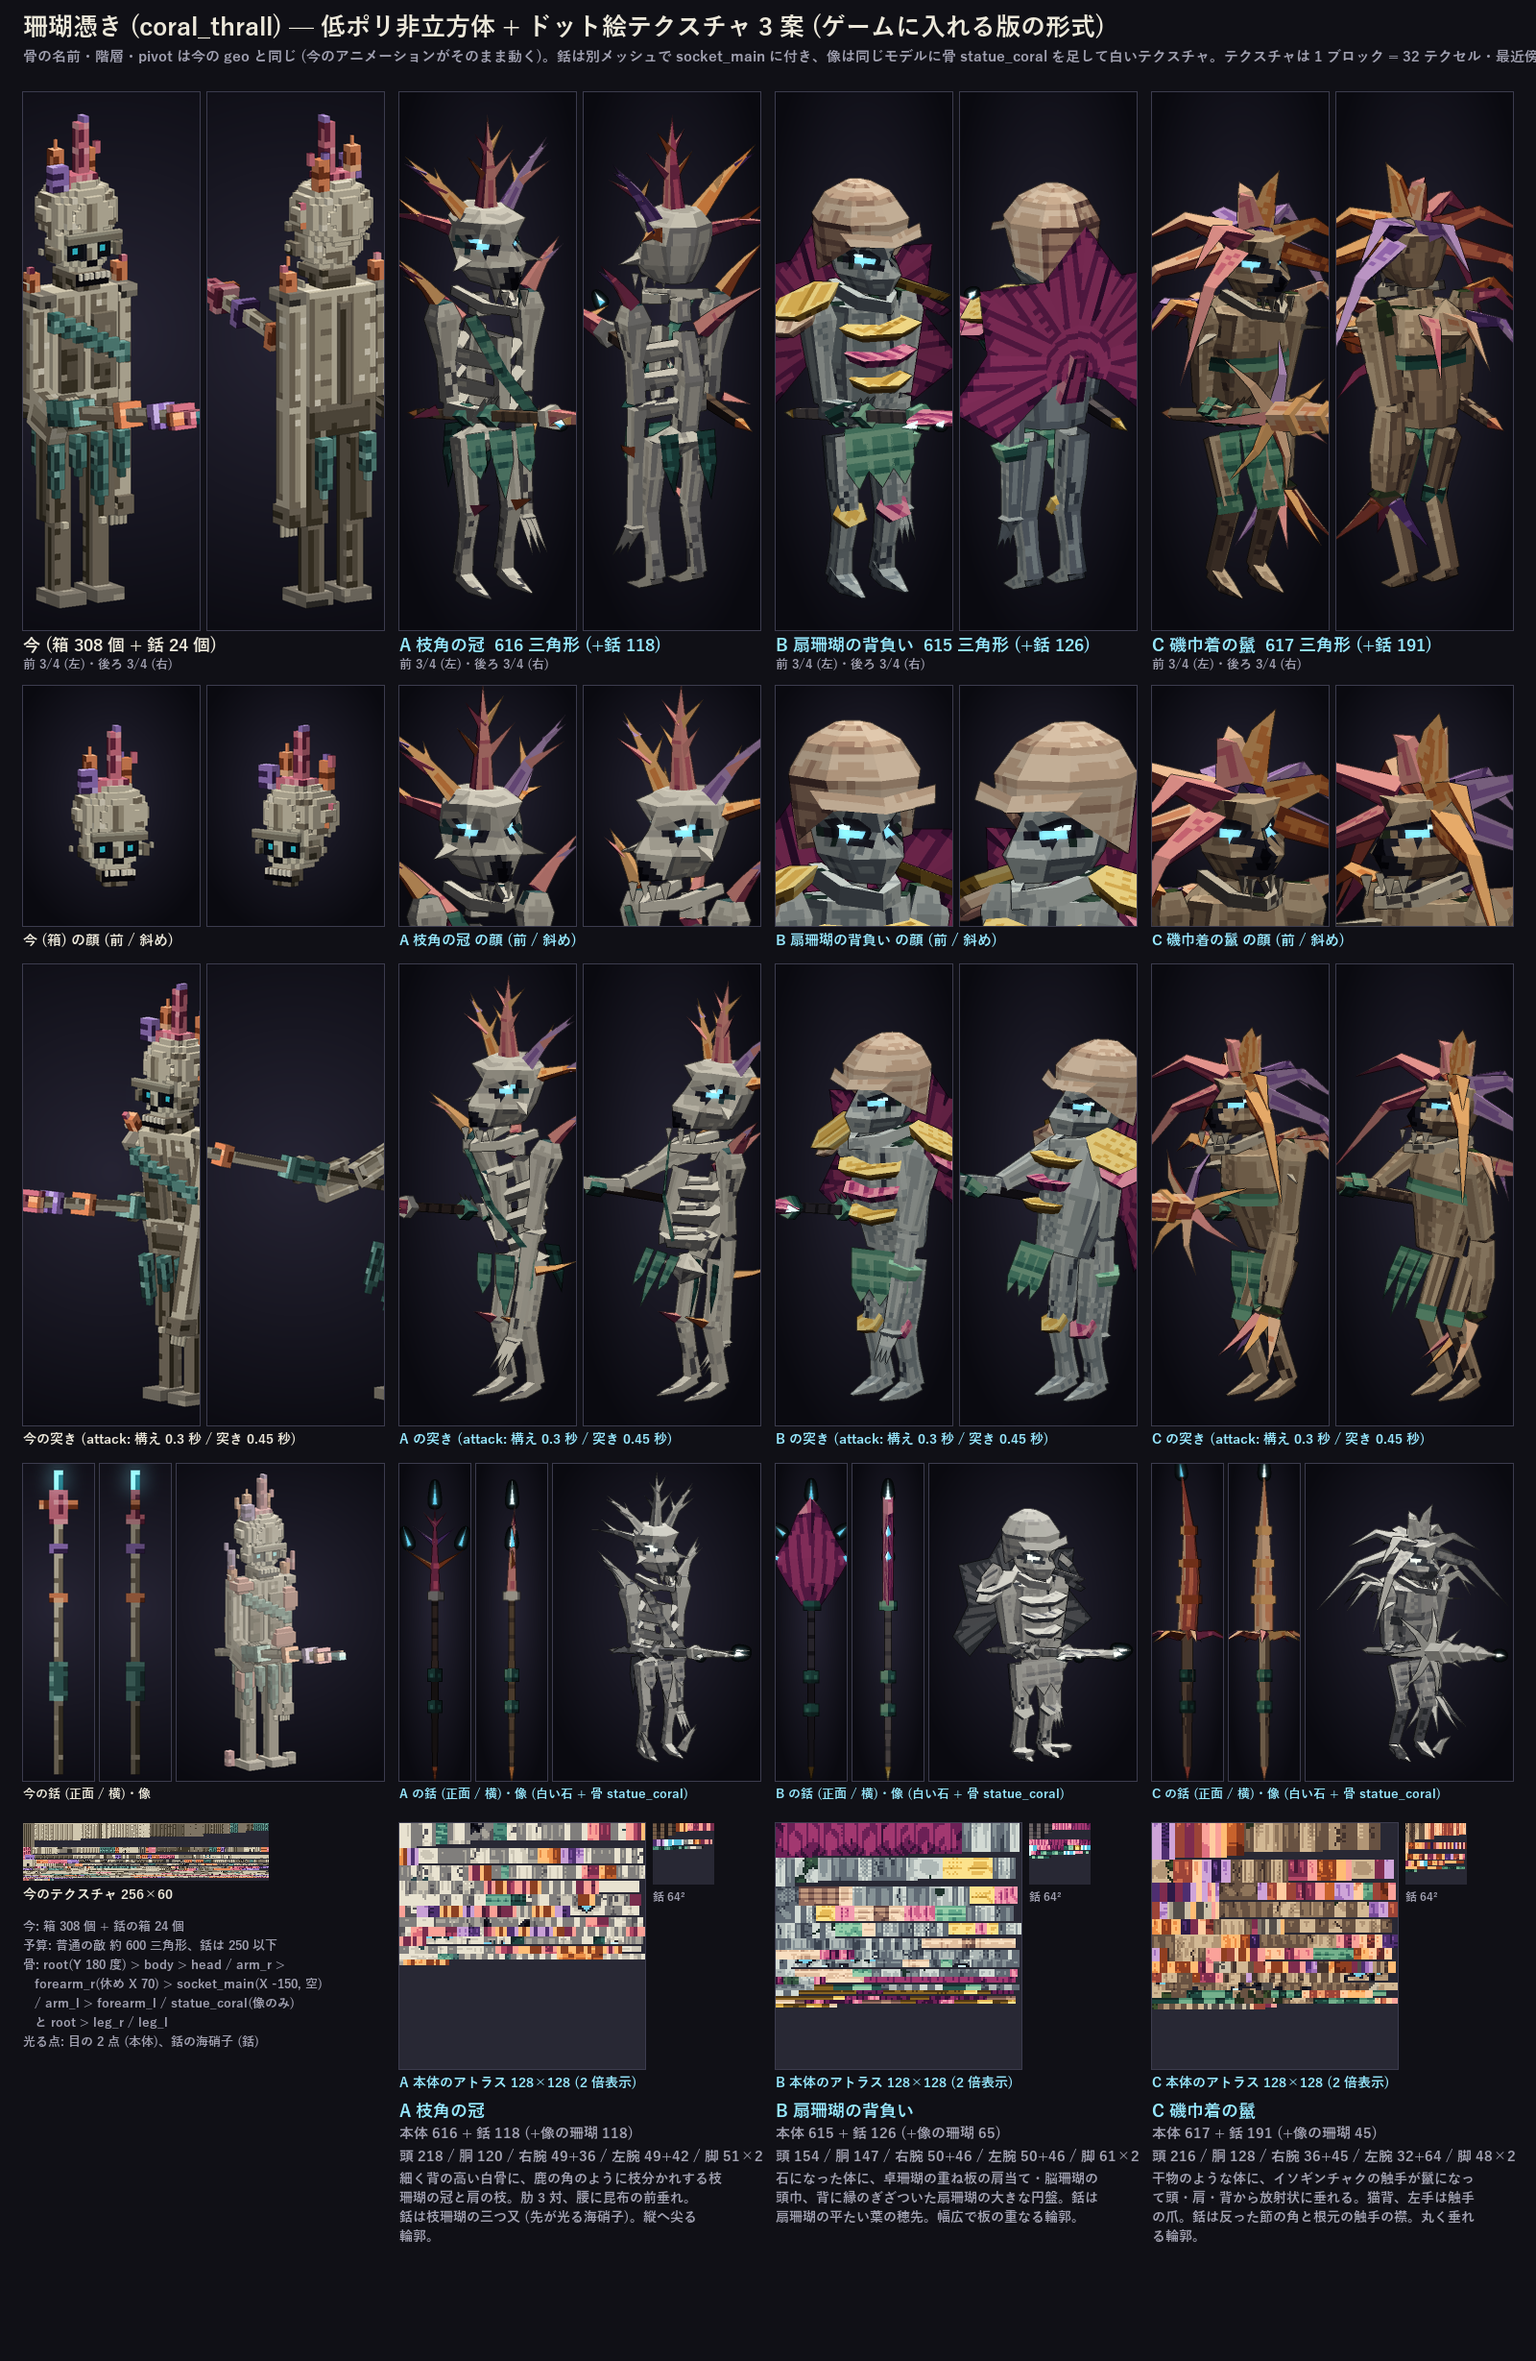
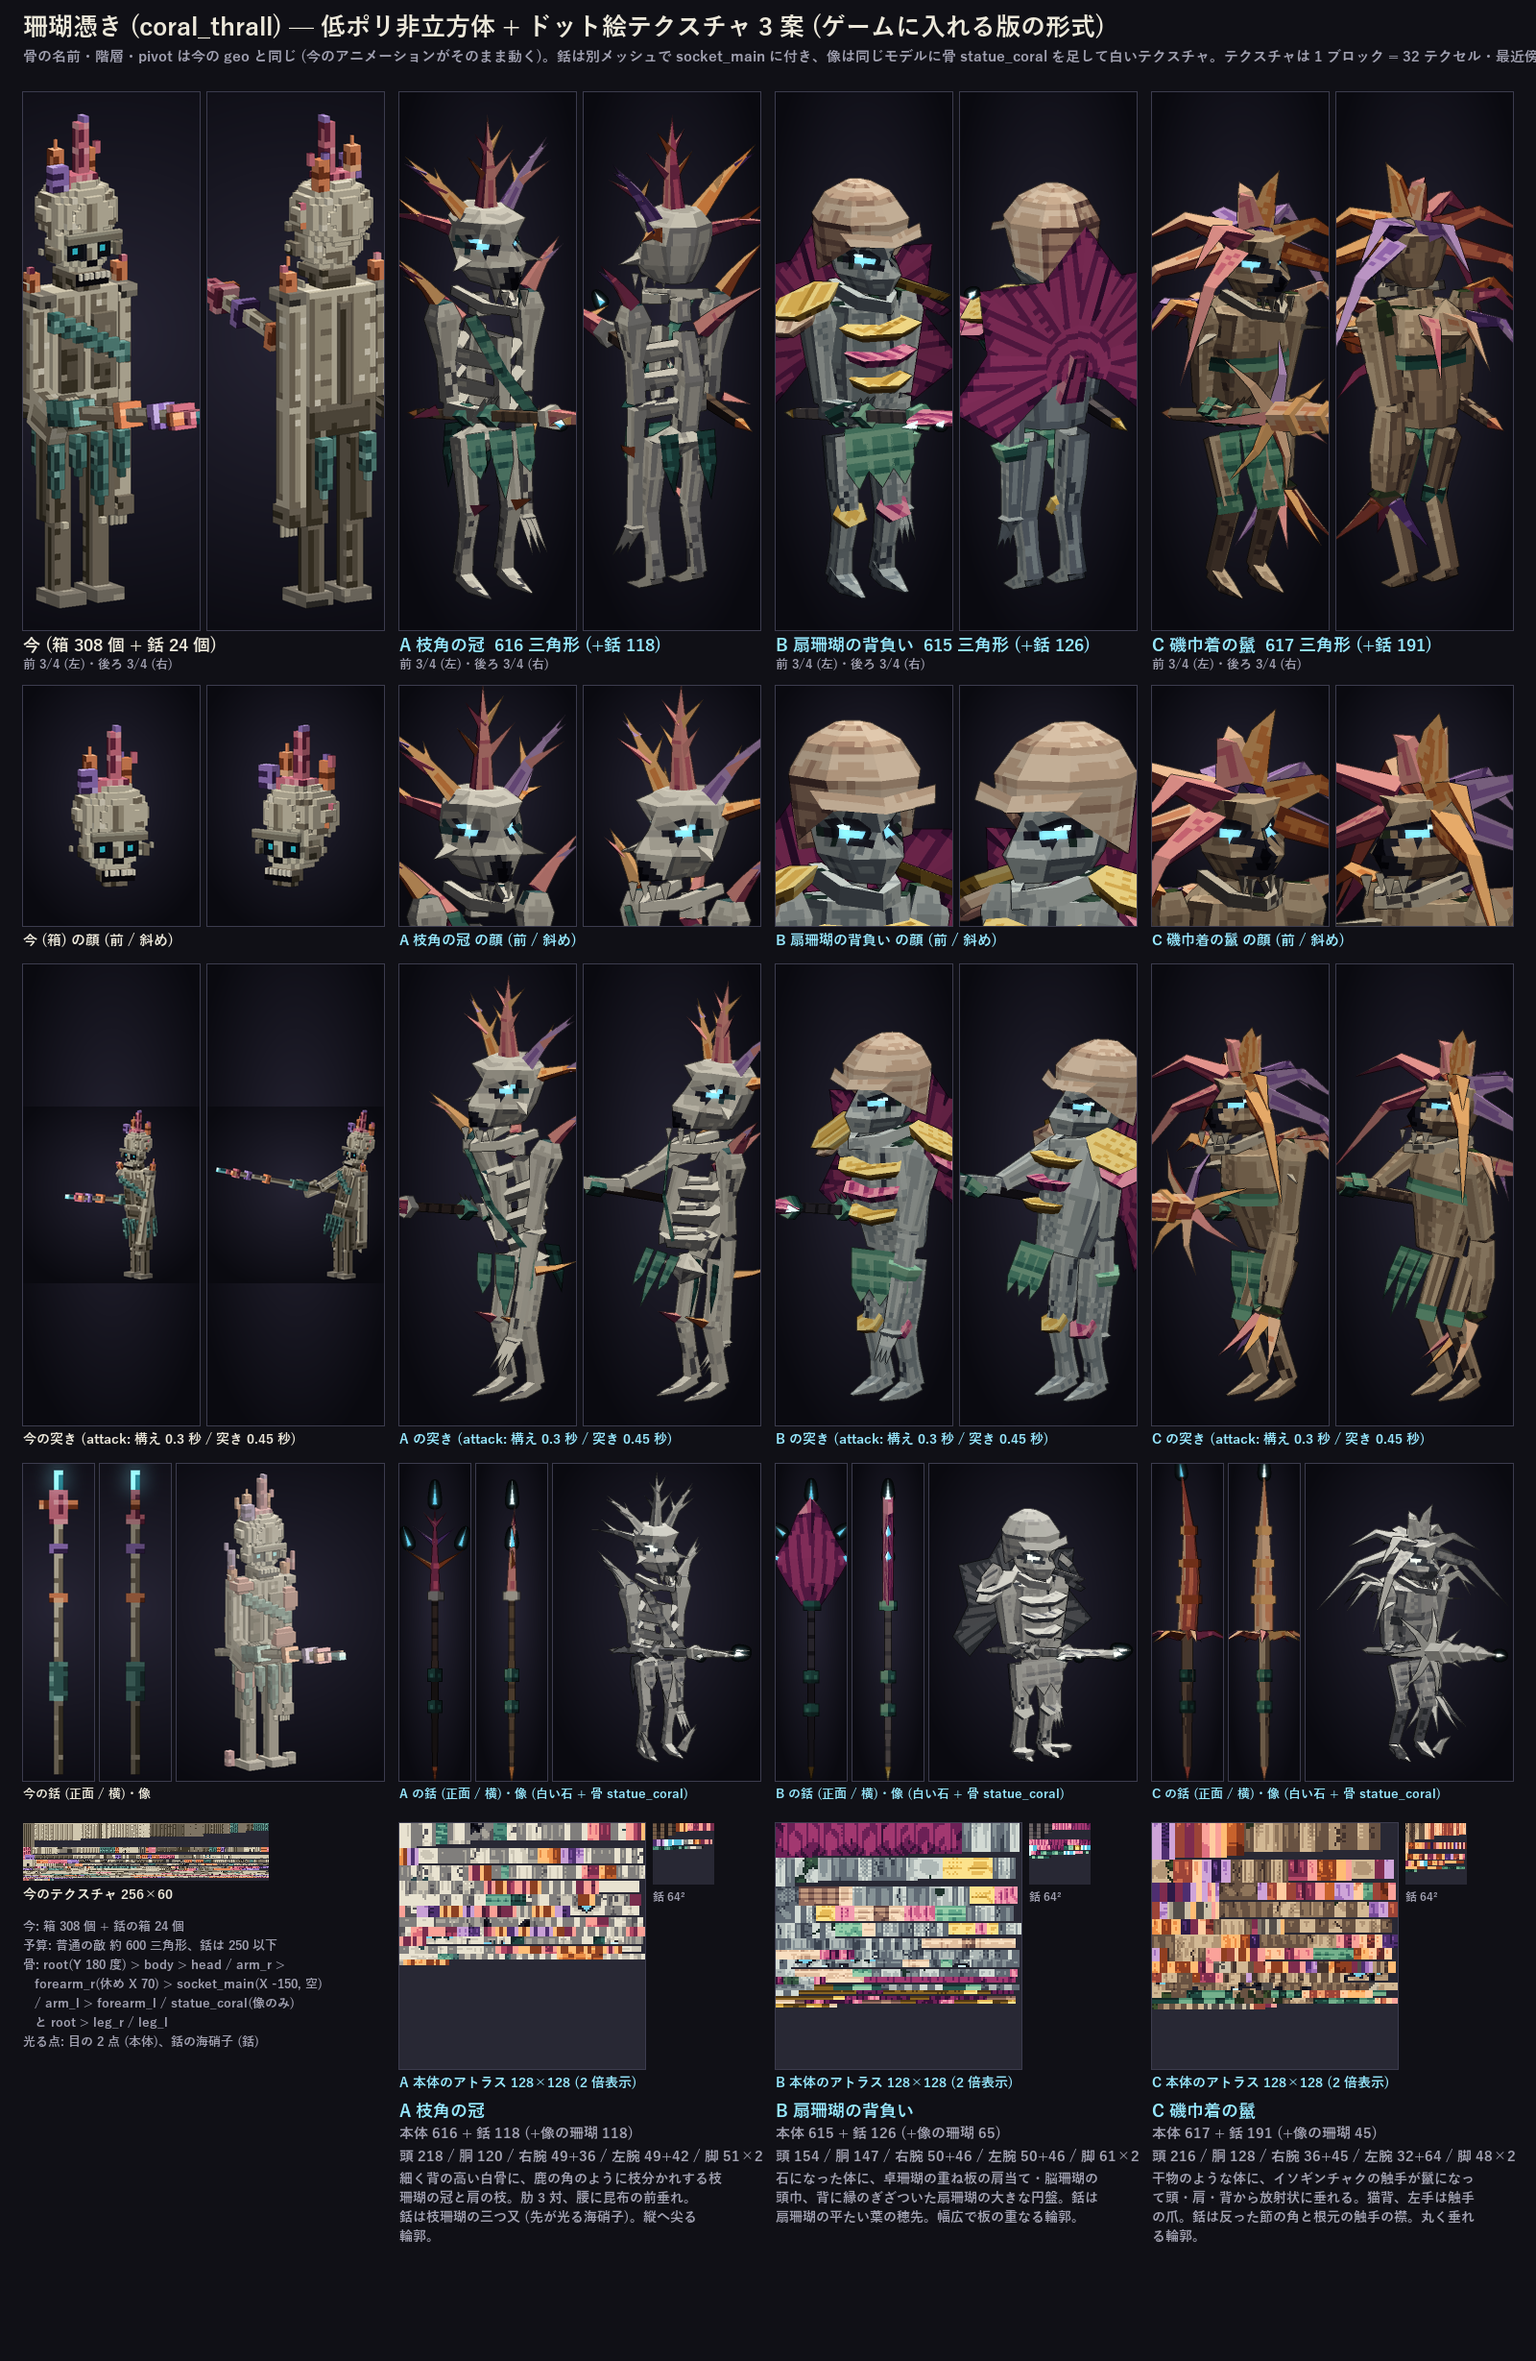
Fix old-pose panels on the coral_thrall sheet

Changed region(s): [[0.0, 0.402, 0.25, 0.6184]]

diff --git a/tools/rough/lowpoly/coral_thrall/compare.py b/tools/rough/lowpoly/coral_thrall/compare.py
@@ -127,7 +127,7 @@ def main():
             bgp = bg_panel(HW, PH3)
             if i == 0:
                 sq = voxel.render(of_w if j == 0 else of_t, yaw=yaw, pitch=10, size=(PH3, PH3), margin=0.02).resize((HW, HW), Image.LANCZOS)
-                bgp.paste(sq, (0, (PH3 - HW) // 2), sq)
+                bgp.paste(sq.convert("RGB"), (0, (PH3 - HW) // 2))
             else:
                 r = results[i - 1]
                 big, gl, yoff = combined_atlas(r)
